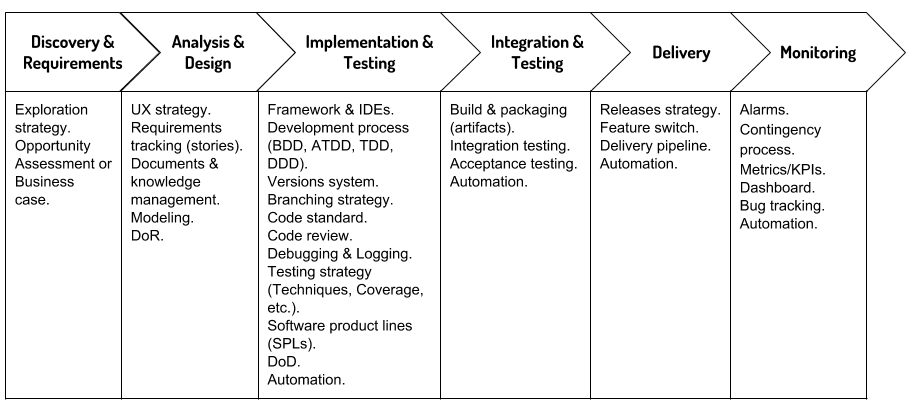
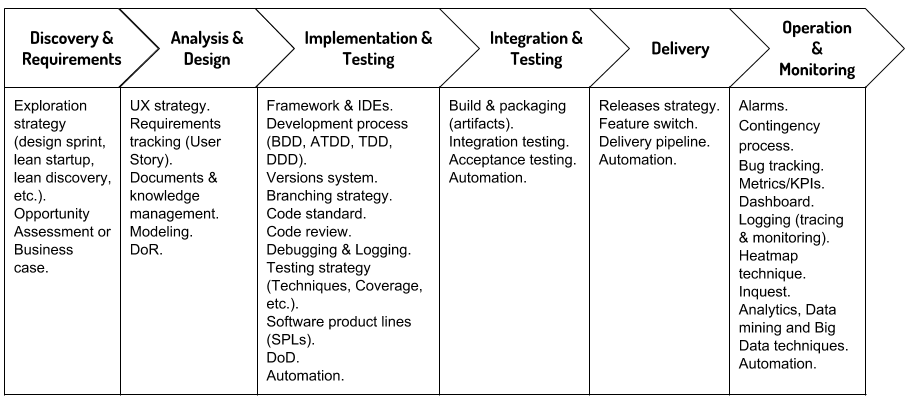
Add board graphics

diff --git a/content/complementary.tex b/content/complementary.tex
@@ -38,6 +38,8 @@ En mi experiencia he visto como equipos han necesitado robustecer Scrum con otra
   \centering
   \label{fig:Scrum_Flow_Extended-Scrum} %\ref{fig:Scrum_Flow_Extended-Scrum}
 \end{figure}
+\FloatBarrier % Command to control the position of floating images. With its, I can get the figures not to be pushed to the end of the document.
+% El comando FloatBarrier es usado aqui para que la imagen se clave en este lugar y que no sea acarreada al final del documento.
 
 Por ejemplo, cuando un equipo ya constituido comienza con un nuevo producto, es aconsejable tener un proceso inmediatamente previo a comenzar los sprints para definir o poner a todo el equipo en la misma página respecto a la visión del producto, los objetivos y para poder hacer una primera alimentación formal y colaborativa del backlog. En esta reunión es cuando se hace el kickoff, se definen los tipos de usuarios, experiencia de usuarios a alto nivel, visión del producto, features principales, posibles temas o épicas, un posible roadmap, y las historias sobre las cuales se puede comenzar a trabajar. A este proceso se lo puede llamar “inception”.
 
@@ -89,6 +91,8 @@ No hay nada mejor para iniciar un equipo ágil que comenzar con motivación, foc
   \centering
   \label{fig:Lienzo_de_constitucion_de_equipo_agil} %\ref{fig:Lienzo_de_constitucion_de_equipo_agil}
 \end{figure}
+\FloatBarrier % Command to control the position of floating images. With its, I can get the figures not to be pushed to the end of the document.
+% El comando FloatBarrier es usado aqui para que la imagen se clave en este lugar y que no sea acarreada al final del documento.
 
 En esta dinámica, mediante un lienzo de cinco regiones, completamos la identidad del equipo, su propósito como tal, los valores del equipo, los acuerdos de trabajo (working agreement) y el método de trabajo. La identidad del equipo puede constar de un nombre y un avatar. También se pueden escribir los nombres de cada integrante para que queden registrados como acta de constitución. El propósito debería ser simple y claro, que cohesione la finalidad del equipo. Aquí podemos recordar que es deseable que se constituyan equipos a los cuales se les da trabajo o se les trae productos o proyectos y no al revés, armar equipos para un proyecto en particular para luego desarmarlos. Es recomendable orientarse a productos o servicios con equipos estables que a proyectos. Respecto a los valores, además de hacer énfasis en los valores ágiles y los de Scrum, el equipo puede definir sus propios valores o agregar valores a seguir. Los acuerdos de trabajo son esenciales para marcar las reglas del equipo como acuerdos de convivencia. Aquí se puede agregar la hora de comienzo de la daily, por ejemplo. Y por último, en método de trabajo se aclara el uso de Scrum, la duración del sprint y se pueden especificar algunas prácticas a seguir.
 
@@ -110,6 +114,8 @@ Se puede hacer uso de medir Business Value Points para hacer un seguimiento del 
   \centering
   \label{fig:BusinessValueDiagrams} %\ref{fig:BusinessValueDiagrams}
 \end{figure}
+\FloatBarrier % Command to control the position of floating images. With its, I can get the figures not to be pushed to the end of the document.
+% El comando FloatBarrier es usado aqui para que la imagen se clave en este lugar y que no sea acarreada al final del documento.
 
 \newpage
 \section{Técnicas para requerimientos}
@@ -300,26 +306,48 @@ El tablero Scrum/Kanban o "Scrum Kanban Board" es una técnica de comunicación 
 
 \subsubsection{Ejemplo de un Scrum kanban board}
 
-Ver figura \ref{fig:ScrumKanbanBoard}.
+Los tableros se usan para reflejar el sprint backlog de una manera que sea útil para el equipo. Un buen tablero refleja el flujo real de trabajo y los respectivos WIP asociados a las etapas de trabajo (columnas). Hay equipos que tienen dos tableros: uno para el flujo de historias (story board) y otro para el flujo de las tareas (task board) (ver fig. \ref{fig:SprintBoard_01}). Esta manera permite tener una verdadera visibilidad del flujo de las historias, por un lado, y sus correspondientes tareas, por otro. Otros equipos tienen las historias y tareas integradas en un solo tablero (ver fig. \ref{fig:StoryAndTaskBoard_integrated_01}). La estructura y estándar de colores y nomenclaturas dependerá de cada equipo.
 
 \begin{figure}[h]
   \centering
-  \includegraphics[width=0.6\textwidth]{ScrumKanbanBoard}
+  \includegraphics[width=0.8\textwidth]{ScrumKanbanBoard}
   \caption{Ejemplo de un tablero Kanban para Scrum.}
   \centering
   \label{fig:ScrumKanbanBoard} %\ref{fig:ScrumKanbanBoard}
 \end{figure}
-
-\subsubsection{Ejemplo de un Scrum board}
-
-Un Scrum board, Kamban Board o taskboard físico (Ver figura \ref{fig:ScrumBoard}) es una tabla donde se colocan Post-it representando tareas.
+\FloatBarrier % Command to control the position of floating images. With its, I can get the figures not to be pushed to the end of the document.
+% El comando FloatBarrier es usado aqui para que la imagen se clave en este lugar y que no sea acarreada al final del documento.
 
 \begin{figure}[h]
   \centering
-  \includegraphics[width=0.6\textwidth]{ScrumBoard}
-  \caption{Ejemplo de un tablero Scrum.}
+  \includegraphics[width=0.8\textwidth]{StoryBoard_01}
+  \caption{Ejemplo de un tablero Kanban para historias.}
   \centering
-  \label{fig:ScrumBoard} %\ref{fig:ScrumBoard}
+  \label{fig:StoryBoard_01} %\ref{fig:StoryBoard_01}
+\end{figure}
+\FloatBarrier % Command to control the position of floating images. With its, I can get the figures not to be pushed to the end of the document.
+% El comando FloatBarrier es usado aqui para que la imagen se clave en este lugar y que no sea acarreada al final del documento.
+
+\begin{figure}[h]
+  \centering
+  \includegraphics[width=0.8\textwidth]{SprintBoard_01}
+  \caption{Esquema de un Sprint backlog.}
+  \centering
+  \label{fig:SprintBoard_01} %\ref{fig:SprintBoard_01}
+\end{figure}
+\FloatBarrier % Command to control the position of floating images. With its, I can get the figures not to be pushed to the end of the document.
+% El comando FloatBarrier es usado aqui para que la imagen se clave en este lugar y que no sea acarreada al final del documento.
+
+\subsubsection{Ejemplo de un sprint backlog integrado simple}
+
+Un tablero de tareas (taskboard) físico (Ver figura \ref{fig:StoryAndTaskBoard_integrated_01}) es una tabla donde se colocan Post-its representando tareas, que pueden estar asociadas a historias. Este se puede integrar al de historias aunque simplifica el flujo real de la historia ya que se centra en las tareas (ver fig. \ref{fig:StoryAndTaskBoard_integrated_01}).
+
+\begin{figure}[h]
+  \centering
+  \includegraphics[width=0.6\textwidth]{StoryAndTaskBoard_integrated_01}
+  \caption{Ejemplo de un tablero integrado de historia y tareas.}
+  \centering
+  \label{fig:StoryAndTaskBoard_integrated_01} %\ref{fig:StoryAndTaskBoard_integrated_01}
 \end{figure}
 
 \subsection{Tablero de obstáculos}
@@ -333,6 +361,8 @@ El Tablero de Obstáculos (ver figura \ref{fig:ObstacleBoard}) es una herramient
   \centering
   \label{fig:ObstacleBoard} %\ref{fig:ObstacleBoard}
 \end{figure}
+\FloatBarrier % Command to control the position of floating images. With its, I can get the figures not to be pushed to the end of the document.
+% El comando FloatBarrier es usado aqui para que la imagen se clave en este lugar y que no sea acarreada al final del documento.
 
 \subsection{Calendario de obstáculos}
 
@@ -345,6 +375,8 @@ El calendario de obstáculos es una herramienta visual útil para mostrar los pr
   \centering
   \label{fig:CalendarIssues} %\ref{fig:CalendarIssues}
 \end{figure}
+\FloatBarrier % Command to control the position of floating images. With its, I can get the figures not to be pushed to the end of the document.
+% El comando FloatBarrier es usado aqui para que la imagen se clave en este lugar y que no sea acarreada al final del documento.
 
 \subsection{Gráficos de esfuerzo pendiente}
 
@@ -359,6 +391,8 @@ Un gráfico de trabajo pendiente o "Burndown charts"\footnote{El Burndown muestr
   \centering
   \label{fig:Burndown_chart} %\ref{fig:Burndown_chart}
 \end{figure}
+\FloatBarrier % Command to control the position of floating images. With its, I can get the figures not to be pushed to the end of the document.
+% El comando FloatBarrier es usado aqui para que la imagen se clave en este lugar y que no sea acarreada al final del documento.
 
 \begin{figure}[h]
   \centering
@@ -367,6 +401,8 @@ Un gráfico de trabajo pendiente o "Burndown charts"\footnote{El Burndown muestr
   \centering
   \label{fig:Burndown-chart_example} %\ref{fig:Burndown-chart_example}
 \end{figure}
+\FloatBarrier % Command to control the position of floating images. With its, I can get the figures not to be pushed to the end of the document.
+% El comando FloatBarrier es usado aqui para que la imagen se clave en este lugar y que no sea acarreada al final del documento.
 
 Se pueden utilizan dos gráficos de esfuerzo pendiente:
 
@@ -389,6 +425,8 @@ El gráfico de trabajo realizado o Burn-up\footnote{El Burnup muestra el trabajo
   \centering
   \label{fig:Burnup_chart} %\ref{fig:Burnup_chart}
 \end{figure}
+\FloatBarrier % Command to control the position of floating images. With its, I can get the figures not to be pushed to the end of the document.
+% El comando FloatBarrier es usado aqui para que la imagen se clave en este lugar y que no sea acarreada al final del documento.
 
 \begin{figure}[h]
   \centering
@@ -397,6 +435,8 @@ El gráfico de trabajo realizado o Burn-up\footnote{El Burnup muestra el trabajo
   \centering
   \label{fig:Burnup-chart_example} %\ref{fig:Burnup-chart_example}
 \end{figure}
+\FloatBarrier % Command to control the position of floating images. With its, I can get the figures not to be pushed to the end of the document.
+% El comando FloatBarrier es usado aqui para que la imagen se clave en este lugar y que no sea acarreada al final del documento.
 
 \newpage
 \subsection{Gráficos de velocidad}
@@ -412,6 +452,8 @@ El gráfico de velocidad muestra todas las unidades estimadas en el plan y acept
   \centering
   \label{fig:VelocityChartAndAverage} %\ref{fig:VelocityChartAndAverage}
 \end{figure}
+\FloatBarrier % Command to control the position of floating images. With its, I can get the figures not to be pushed to the end of the document.
+% El comando FloatBarrier es usado aqui para que la imagen se clave en este lugar y que no sea acarreada al final del documento.
 
 También se puede incluir la velocidad promedio (ver gráfico de la derecha \ref{fig:VelocityChartAndAverage}).
 
@@ -433,6 +475,8 @@ Esta es una técnica útil en el desarrollo ágil y en la programación en parej
   \centering
   \label{fig:Pomodoro} %\ref{fig:Pomodoro}
 \end{figure}
+\FloatBarrier % Command to control the position of floating images. With its, I can get the figures not to be pushed to the end of the document.
+% El comando FloatBarrier es usado aqui para que la imagen se clave en este lugar y que no sea acarreada al final del documento.
 
 \subsection{Programación de a pares}
 
@@ -478,6 +522,8 @@ El Continuous Delivery es un enfoque de ingeniería de software en el que los eq
   \centering
   \label{fig:Continuous_delivery_flow} %\ref{fig:Continuous_delivery_flow}
 \end{figure}
+\FloatBarrier % Command to control the position of floating images. With its, I can get the figures not to be pushed to the end of the document.
+% El comando FloatBarrier es usado aqui para que la imagen se clave en este lugar y que no sea acarreada al final del documento.
 
 \newpage
 \section{Metodologías amigas}
@@ -504,14 +550,14 @@ Scrum se puede complementar y mejorar agregando aspectos del método Kanban. Par
   \centering
   \label{fig:Scrum-Kanban-Board-to-Development} %\ref{fig:Scrum-Kanban-Board-to-Development}
 \end{figure}
+\FloatBarrier % Command to control the position of floating images. With its, I can get the figures not to be pushed to the end of the document.
+% El comando FloatBarrier es usado aqui para que la imagen se clave en este lugar y que no sea acarreada al final del documento.
 
 \subsection{Ampliar Kanban con Scrum, Scrumban}
 
 Una metodología amiga de Scrum es Scrumban. Se trata de una pseudo-metodología mixta y flexible entre Scrum y el método Kanban. Combina las la flexibilidad de Kanban y las características básicas de Scrum. Por un lado, se toma de Kanban lo de mantener un trabajo continuo, exponer el flujo de trabajo, el tablero de trabajo persistente, auto-asignaciones de tareas solamente por el sistema del tomar y jalar (pull), limitar el trabajo en curso y buscar optimizar el flujo teniendo en cuenta la métrica “cycle time”. Por otro, se agrega de Scrum la ceremonia de planning, la retrospectiva como reunión de mejora contínua (Kaizen), el trabajo en ciclos o iteraciones sin ser limitativo o restrictivo de trabajo y la priorización, que se recomienda hacer en cada planificación. Dentro de la flexibilidad que brinda, hace optativo el usar otras partes o prácticas de Scrum. Bajo esta metodología no es necesario estimar, puede ser algo optativo, ya que no se necesita calcular el trabajo que entra en una iteración porque el trabajo es continuo. Aunque sí se pueden estimar tiempos de entrega y/o tamaños de paquetes de trabajo. Por otro lado, al ser el trabajo contínuo y no tener un compromiso formal de trabajo comprometido en una iteración, los cambios y re-priorizaciones pueden hacerse en cualquier momento. 
  
 También es muy flexible el tipo de roles de los miembros del equipo debido a que no prescribe roles específicos ni es necesaria la multidisciplinariedad que recomienda Scrum. Sin embargo en los equipos Kanban o Scrumban han emergido las figuras de Product Owner y Flow Master (facilitador equivalente a un Scrum Master). En Scrumban el Flow Master es, además de un facilitador ágil, un facilitador del flujo del proceso. Usando la facilitación visual hay que tener en cuenta que, como se mencionó antes y al igual que en Kanban, el tablero permanece persistente, mientras que sólo cambian las tareas y sus prioridades. A diferencia de Scrum, donde el tablero de sprint se renueva en cada iteración. Relacionado a la planificación, en Scrumban se planifica focalizados en los releases y no es obligadamente necesario hacerse en la planning de cada iteración; pues, la planificación se puede realizar solo bajo demanda. Este método es muy útil principalmente para procesos de ritmo rápido, para startups, proyectos que requieren fabricación de productos constante, equipos y proyectos con ambientes muy dinámicos y cambiantes, equipos de solución de problemas de contingencias en producción, equipos de mantenimiento, soporte o desarrollo de infraestructura. También es útil para integrar (coordinar y sincronizar) otros equipos de soporte a los equipos Scrum, por ejemplo bajo el marco DevOps. En estos casos, los equipos soporte pueden usar Scrumban y los de desarrollo Scrum.
-
-
 
 \begin{figure}[h]
   \centering
@@ -520,3 +566,5 @@ También es muy flexible el tipo de roles de los miembros del equipo debido a qu
   \centering
   \label{fig:Scrumban-Board-to-Development} %\ref{fig:Scrumban-Board-to-Development}
 \end{figure}
+\FloatBarrier % Command to control the position of floating images. With its, I can get the figures not to be pushed to the end of the document.
+% El comando FloatBarrier es usado aqui para que la imagen se clave en este lugar y que no sea acarreada al final del documento.

diff --git a/content/agile_software_engineering.tex b/content/agile_software_engineering.tex
@@ -2,7 +2,7 @@
 
 \section{Proceso de desarrollo}
 
-Hacer agilidad no nos asegura calidad. Para ello primero hay que asegurarse de hacer ingeniería de software además de agilidad. Hay diferentes procesos de ingeniería y podemos tomar el siguiente: descubrimiento y definición de requerimientos (Discovery \& Requirements), análisis y diseño (Analysis \& Design), implementación y pruebas (Implementation \& Testing), integración y pruebas (Integration \& Testing), despliegue (Delivery) y monitoreo (Monitoring). Hay que considerar que el proceso de Ingeniería de Software sobre una pieza de Software (feature o historia), si bien es secuencial, tiene las fases que se solapan. 
+Hacer agilidad no nos asegura calidad. Para ello primero hay que asegurarse de hacer ingeniería de software además de agilidad. Hay diferentes procesos de ingeniería y podemos tomar el siguiente: descubrimiento y definición de requerimientos (Discovery \& Requirements), análisis y diseño (Analysis \& Design), implementación y pruebas (Implementation \& Testing), integración y pruebas (Integration \& Testing), despliegue (Delivery) y "operación y monitoreo" (Operation \& Monitoring). En la última fase se contempla operaciones, monitoreo y el análisis de datos. Operaciones en cuanto a aseguramiento de la operatividad y rendimiento del software. El monitoreo de datos es el seguimiento a determinadas acciones que podemos cuantificar y que nos arrojaran datos relevantes para la estrategia (KPIs). Y el análisis de datos es la base de la optimización de la estrategia, que nos permite modificar, continuar o establecer nuevas directrices, sin perder de vista el objetivo final del software o producto. Dicho esto, hay que considerar que el proceso de Ingeniería de Software sobre una pieza de Software (feature o historia), si bien es secuencial, tiene las fases que se solapan (ver fig. \ref{fig:PhasesOfSoftwareEngineering}). 
 
 \begin{figure}[h]
   \centering
@@ -11,6 +11,8 @@ Hacer agilidad no nos asegura calidad. Para ello primero hay que asegurarse de h
   \centering
   \label{fig:PhasesOfSoftwareEngineering} %\ref{fig:PhasesOfSoftwareEngineering}
 \end{figure}
+\FloatBarrier % Command to control the position of floating images. With its, I can get the figures not to be pushed to the end of the document.
+% El comando FloatBarrier es usado aqui para que la imagen se clave en este lugar y que no sea acarreada al final del documento.
 
 Correr este proceso bajo un marco ágil como Scrum, con prácticas ágiles es lo que podemos llamar Ingeniería de Software Ágil (Agile Software Engineering). Además es conveniente introducir la idea de prácticas continuas, es decir refinamiento continuo (análisis y diseño con trabajo UX continuo), testing continuo (continuous testing), integración continua (continuous integration), despliegue o entrega continua (continuous deployment \& continuous delivery) y monitoreo continuo (continuous monitoring). 
 Dicho esto, tenemos que tener en cuenta cómo unir y ajustar el proceso de Ingeniería de Software con el marco de trabajo Scrum. En este sentido es que se plantea ejecutar las fases del proceso de ingeniería, sobre historias de usuario, dentro del tren de sprints. En un equipo extremadamente autónomo y ágil, todas las fases se pueden desarrollar bajo el tren de sprints de Scrum.
@@ -22,6 +24,8 @@ Dicho esto, tenemos que tener en cuenta cómo unir y ajustar el proceso de Ingen
   \centering
   \label{fig:AgileSoftwareEngineering} %\ref{fig:AgileSoftwareEngineering}
 \end{figure}
+\FloatBarrier % Command to control the position of floating images. With its, I can get the figures not to be pushed to the end of the document.
+% El comando FloatBarrier es usado aqui para que la imagen se clave en este lugar y que no sea acarreada al final del documento.
 
 De este modo, se integra el testing en fases más tempranas del desarrollo, por lo que QA no retrasa al equipo de desarrollo, porque QA está dentro del equipo y se trabaja con testing continuo. Los mismo sucede con UX y Operaciones.
 
@@ -36,9 +40,24 @@ Como ya he mencionado, es deseable que el SM vele por la excelencia técnica de 
   \centering
   \label{fig:TechnicalPractices} %\ref{fig:TechnicalPractices}
 \end{figure}
+\FloatBarrier % Command to control the position of floating images. With its, I can get the figures not to be pushed to the end of the document.
+% El comando FloatBarrier es usado aqui para que la imagen se clave en este lugar y que no sea acarreada al final del documento.
 
-Se puede hacer un esquema de flujo semejante con los aspecto tecnológico, herramientas, correspondientes a cada fase.
+Se puede hacer un esquema de flujo semejante con los aspecto tecnológico, de herramientas, correspondientes a cada fase.
+
+Hay que tener en cuenta que para que el flujo de desarrollo de software fluya limpio y cadencioso, la experiencia del desarrollo debe ser memorable y fluida sobre una plataforma e infraestructura que la facilite. Es por esto que un equipo de desarrollo tiene interdependencia con equipos de operaciones e infraestructura y es parte del desafío de un equipo de alto rendimiento disminuir la brecha, empoderarse y facilitar la integración de ese área de conocimiento.
+
+\begin{figure}[h]
+  \centering
+  \includegraphics[width=0.99\textwidth]{Infrastructure}
+  \caption{Plataforma e infraestructura}
+  \centering
+  \label{fig:Infrastructure} %\ref{fig:Infrastructure}
+\end{figure}
+\FloatBarrier % Command to control the position of floating images. With its, I can get the figures not to be pushed to the end of the document.
+% El comando FloatBarrier es usado aqui para que la imagen se clave en este lugar y que no sea acarreada al final del documento.
 
 \section{En síntesis}
 
 Hacer ingeniería de software ágil es desarrollar software de valor, de modo iterativo e incremental, con un producto o servicio que evoluciona, donde los requisitos y soluciones evolucionan con el tiempo, haciendo entregas frecuentes de calidad y valor, trabajando con equipos auto-organizados y multidisciplinarios que mejoran, inmersos en un proceso compartido de toma de decisiones interactiva y dinámica. Y, lo más importante, es considerar que la ingeniería es, además de una práctica científica, una práctica humana. Construir software se trata de relaciones humanas en un sistema social. Por eso, hay que construir relaciones humanas de valor, que habiliten la entrega continua de valor.
+

diff --git a/content/second_page.tex b/content/second_page.tex
@@ -34,7 +34,7 @@
 
 % Version of Build or PDF version
 Primera edición, versión 1.0.0, 2015, Córdoba, Argentina.
-Segunda edición, versión 3.0.2, 8 de Marzo de 2018, Santiago de Chile.
+Segunda edición, versión 3.0.3, 24 de Marzo de 2018, Santiago de Chile.
 
 % License text message
 \input{content/license_message}
